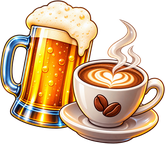
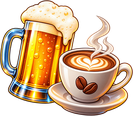
Give the site the donate mark every project site carries
build_resources wrote the tray's 165 by 144 render to docs/donate.png as well, where every other project site carries the same 133 by 116 mark. The generator now writes the tray's copy only. The test that held the two copies identical is replaced by one that pins the site's copy to the shared mark by its content and refuses a generator that writes it; it failed on the old file and passes on the shared one.

diff --git a/tests/structural/test_tray_art.py b/tests/structural/test_tray_art.py
@@ -21,6 +21,7 @@ same reason.
 
 from __future__ import annotations
 
+import hashlib
 import importlib.util
 import re
 import struct
@@ -53,6 +54,13 @@ def _load_build_resources() -> ModuleType:
 _RESOURCES = _load_build_resources()
 ART_RENDER_DIR: str = _RESOURCES.ART_RENDER_DIR
 DONATE_OUTPUTS: tuple[str, ...] = _RESOURCES.DONATE_OUTPUTS
+SITE_DONATE: str = _RESOURCES.SITE_DONATE
+
+# The donate mark every project site carries (133 by 116 pixels), identified by
+# its content so a resized or regenerated copy cannot pass for it.
+SHARED_SITE_DONATE_SHA256 = (
[1 lines of base64/hex data omitted]
+)
 HEADER_DRAW_PX: int = _RESOURCES.ART_DRAW_PX
 DONATE_DRAW_PX: int = _RESOURCES.DONATE_DRAW_PX
 SUPERSAMPLE: int = _RESOURCES.ART_SUPERSAMPLE
@@ -186,20 +194,24 @@ def test_the_foot_takes_the_same_fraction_of_the_header_in_both_places() -> None
     )
 
 
-def test_the_site_and_the_application_carry_the_same_donate_mark() -> None:
-    """The site cannot import anything, so it holds its own copy of the picture.
-
-    The generator writes both from one render in one loop. Comparing the bytes
-    is what makes that hold: two copies produced separately drift into
-    different artwork under the same name, which nothing else would notice.
-    """
-    written = [(_ROOT / out) for out in DONATE_OUTPUTS]
-    missing = [str(path) for path in written if not path.is_file()]
+def test_the_application_carries_its_donate_render() -> None:
+    """The tray's donate mark exists wherever the generator writes it."""
+    missing = [out for out in DONATE_OUTPUTS if not (_ROOT / out).is_file()]
     assert not missing, "Donate marks absent: " + ", ".join(missing)
 
-    contents = {path.read_bytes() for path in written}
-    assert len(contents) == 1, (
-        "The donate mark differs between "
-        + " and ".join(DONATE_OUTPUTS)
-        + "; run create_icons.py rather than copying one over the other."
+
+def test_the_site_carries_the_donate_mark_every_project_site_shares() -> None:
+    """The site's donate mark is copied from the shared one, never generated.
+
+    Every project site carries the same small mark, byte for byte. A render
+    sized to this application's tray differs from it, so the generator must not
+    write the site's copy; the hash below is the shared mark's.
+    """
+    assert (
+        SITE_DONATE not in DONATE_OUTPUTS
+    ), f"build_resources writes {SITE_DONATE}; the site keeps the shared mark."
+    digest = hashlib.sha256((_ROOT / SITE_DONATE).read_bytes()).hexdigest()
+    assert digest == SHARED_SITE_DONATE_SHA256, (
+        f"{SITE_DONATE} is not the shared project-site donate mark; copy it "
+        "from another project site rather than generating it."
     )

diff --git a/create_icons.py b/create_icons.py
@@ -66,11 +66,7 @@ def _generate_app_icon(root: Path) -> int:
 def _render_mark(
     master_path: Path, outputs: list[Path], draw_px: int, root: Path
 ) -> None:
-    """Crop one master to its artwork and write it to every destination.
-
-    One render, written in a loop, because a mark that appears in two places
-    drifts the moment the two are produced separately.
-    """
+    """Crop one master to its artwork and write one render to each output."""
     master = Image.open(master_path).convert("RGBA")
     mark = scale_to_height(crop_to_artwork(master), draw_px * ART_SUPERSAMPLE)
     for out in outputs:
@@ -99,8 +95,8 @@ def _generate_header_art(root: Path) -> int:
         )
 
     # The footer's mark, two thirds of the header's and from the master where
-    # it was delivered rather than from `assets/`. It goes to the site as well
-    # as to the application, from this one render.
+    # it was delivered rather than from `assets/`. It goes to the application
+    # only: the site keeps the donate mark every project site shares.
     print("Generating footer artwork...")
     _render_mark(
         root / DONATE_MASTER,

diff --git a/build_resources.py b/build_resources.py
@@ -72,14 +72,11 @@ ART_NAMES: tuple[str, ...] = (
 DONATE_NAME = "donate"
 DONATE_MASTER = "donate.png"
 
-# Every destination the donate render is written to. The site cannot import
-# anything from the application, so it necessarily holds its own copy of the
-# picture; writing both from one render in one loop is what stops the two
-# drifting into different artwork under the same name.
-DONATE_OUTPUTS: tuple[str, ...] = (
-    "meridian/ui/qml/art/donate.png",
-    "docs/donate.png",
-)
+# Where the donate render is written: the application's tray only. The site's
+# docs/donate.png is never derived from it: it is the small mark every project
+# site shares byte for byte, which the structural suite pins.
+DONATE_OUTPUTS: tuple[str, ...] = ("meridian/ui/qml/art/donate.png",)
+SITE_DONATE = "docs/donate.png"
 
 # The footer mark as a fraction of the header's, which is ClearBudget's rule
 # taken whole: the band at the foot is subordinate to the one at the top, so
